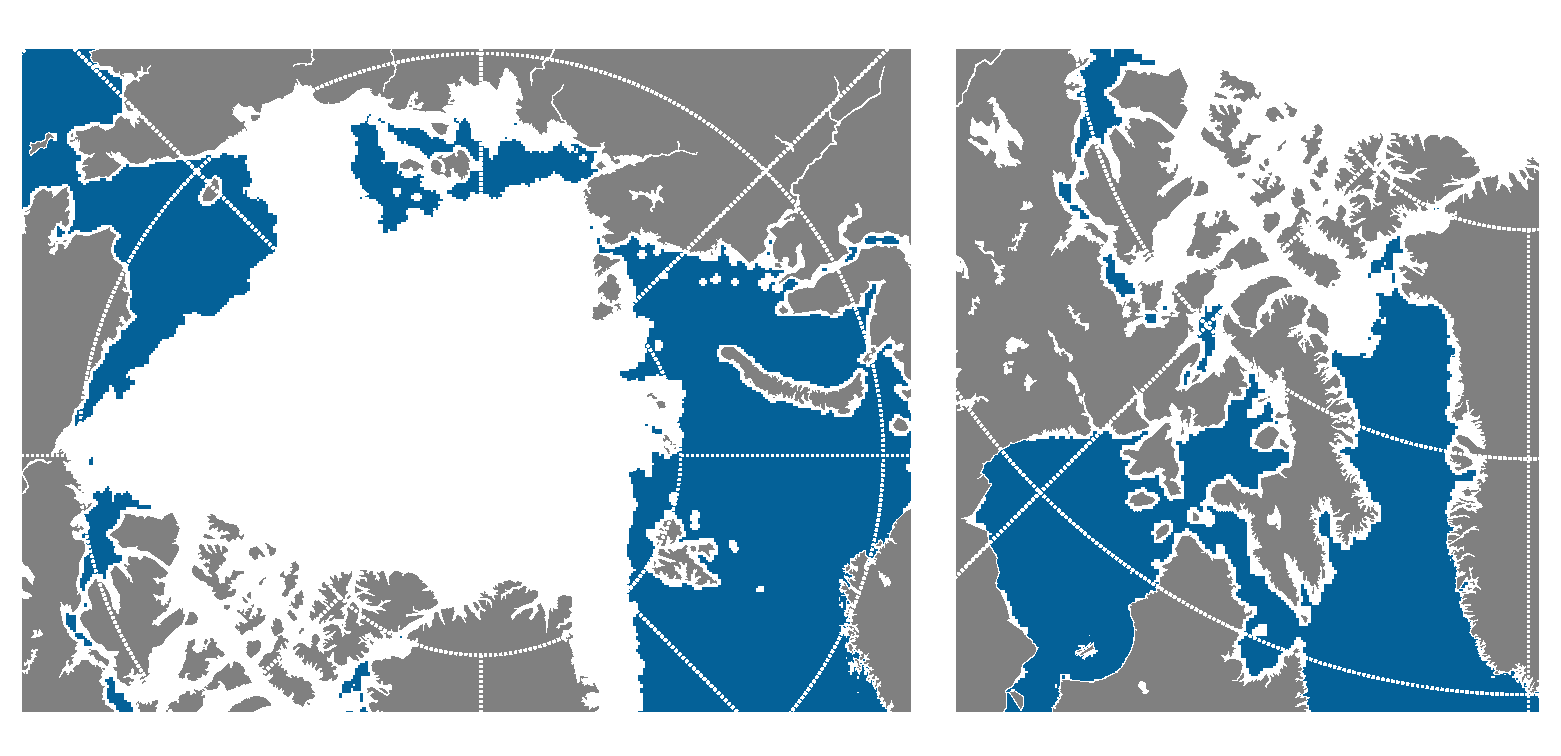
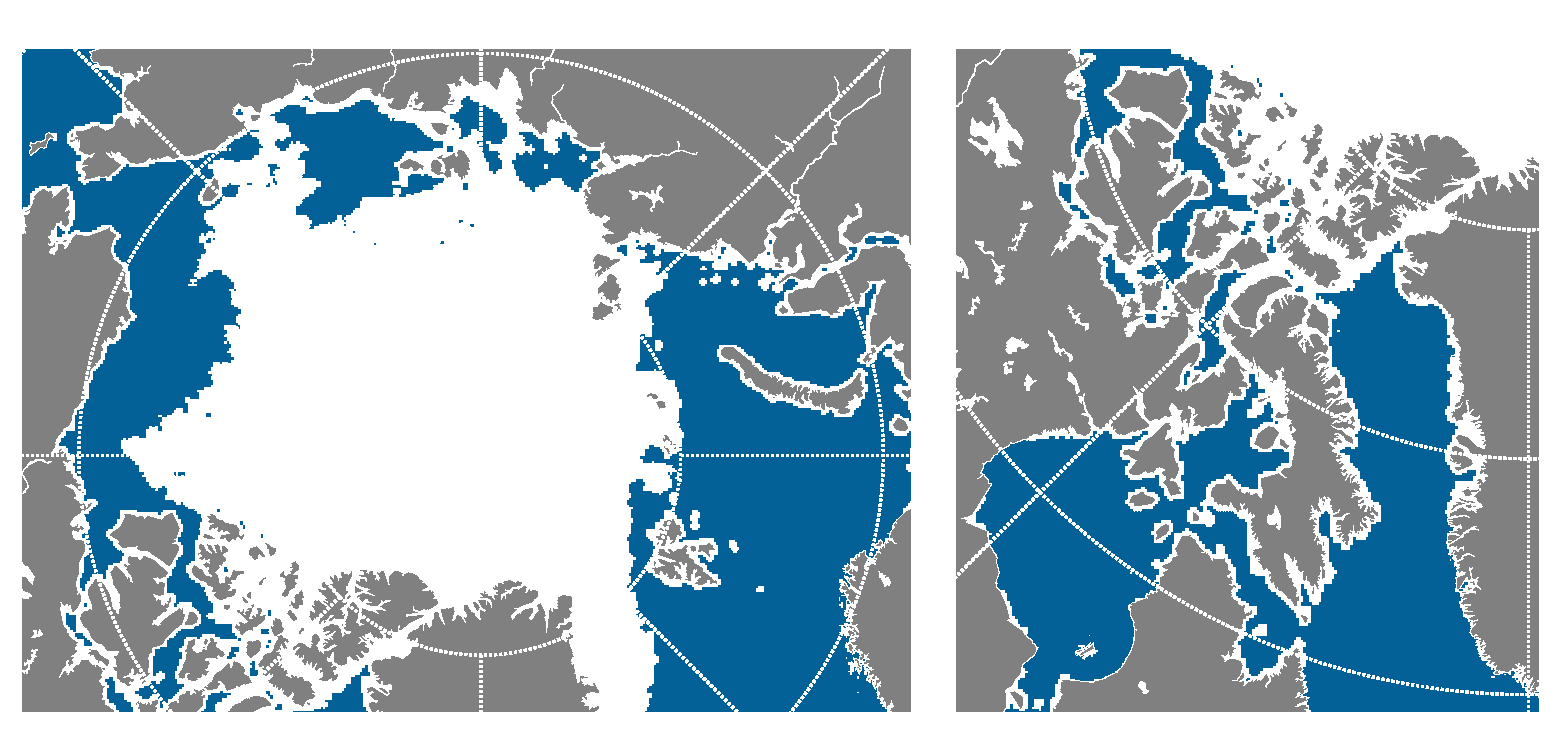
fix background image

diff --git a/osisaf.py b/osisaf.py
@@ -49,7 +49,7 @@ def get_average():
 	#	return "End date should have the format yyyy-mm-dd", 400
 	if(parsedend-parsedstart).days < 2:
 		return "End date should be larger than start date", 400
-	#prepareImage(downloadImage(parsedend))		TODO!!!!
+	prepareImage(downloadImage(parsedend))
 	#yesterday = datetime.today() - timedelta(days = 1)
 	#enddate = datetime(yesterday.year, yesterday.month, yesterday.day)
 	try:
